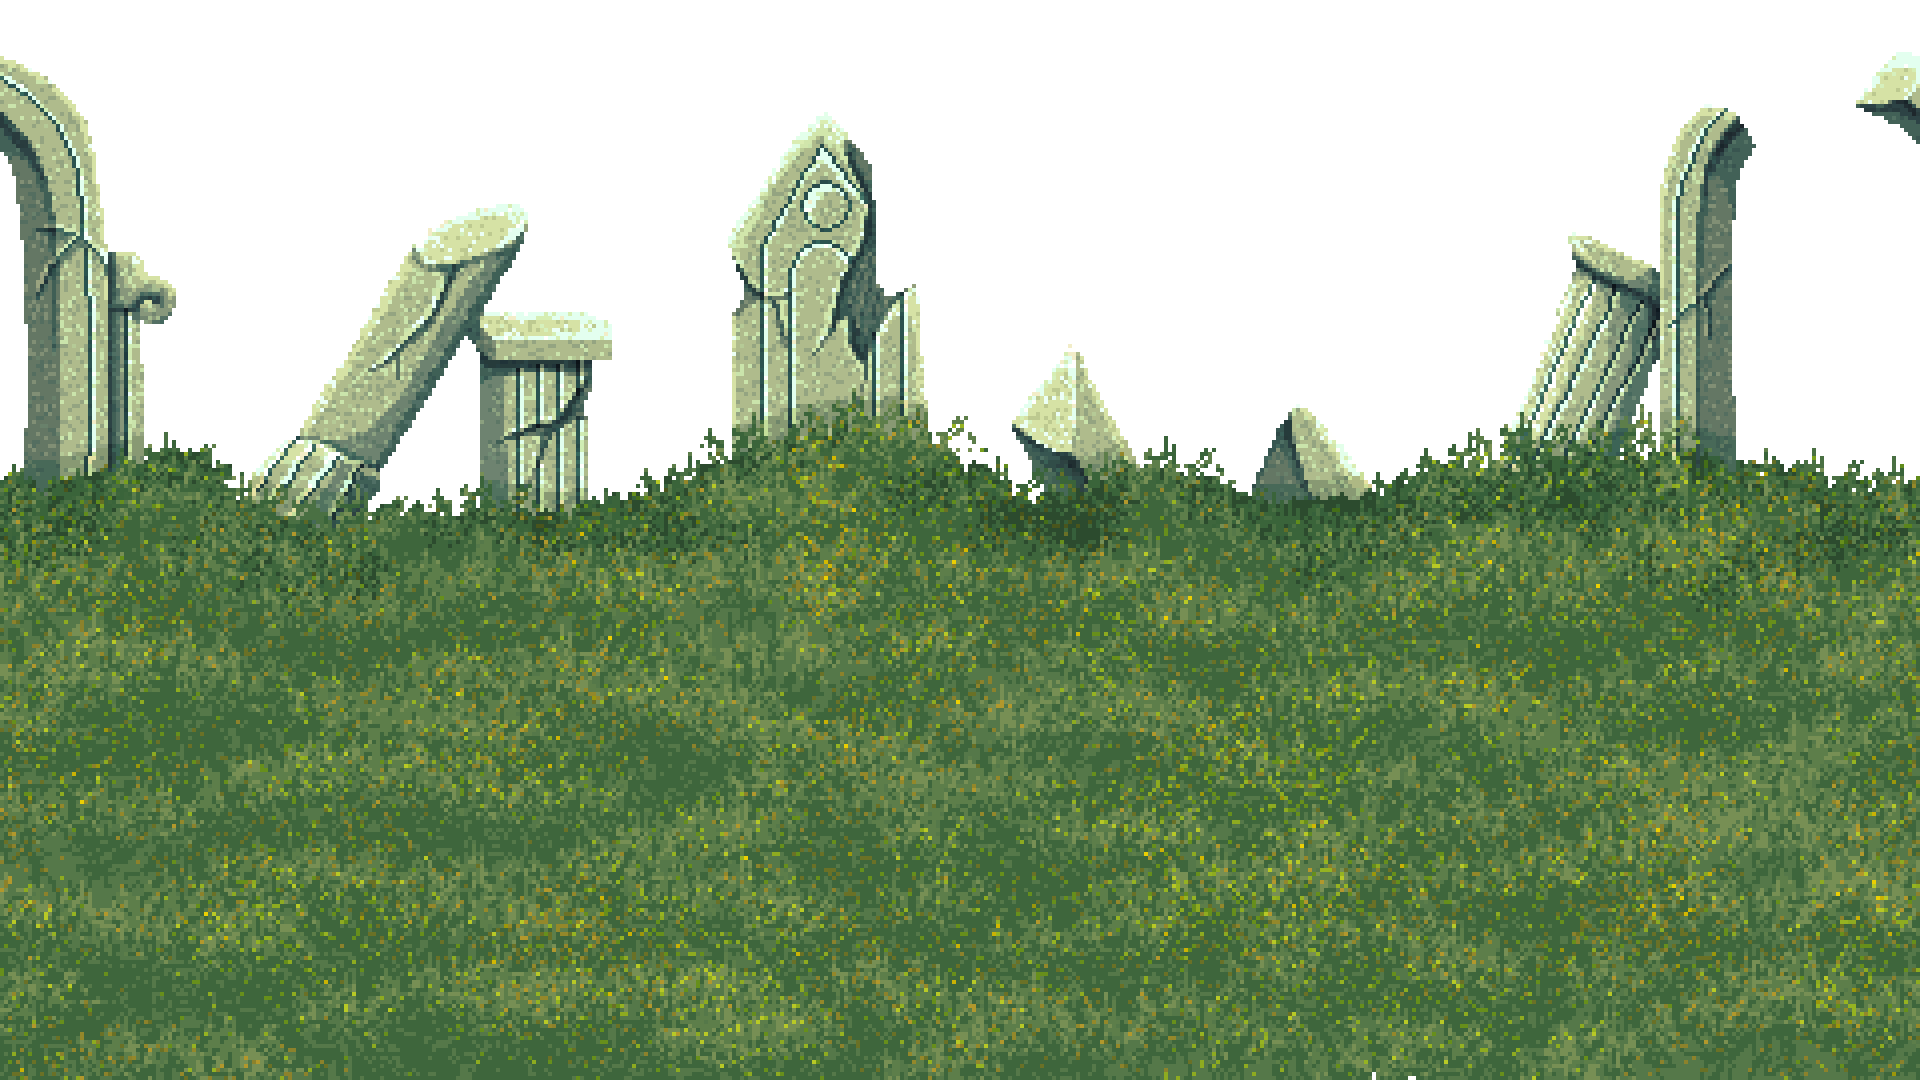
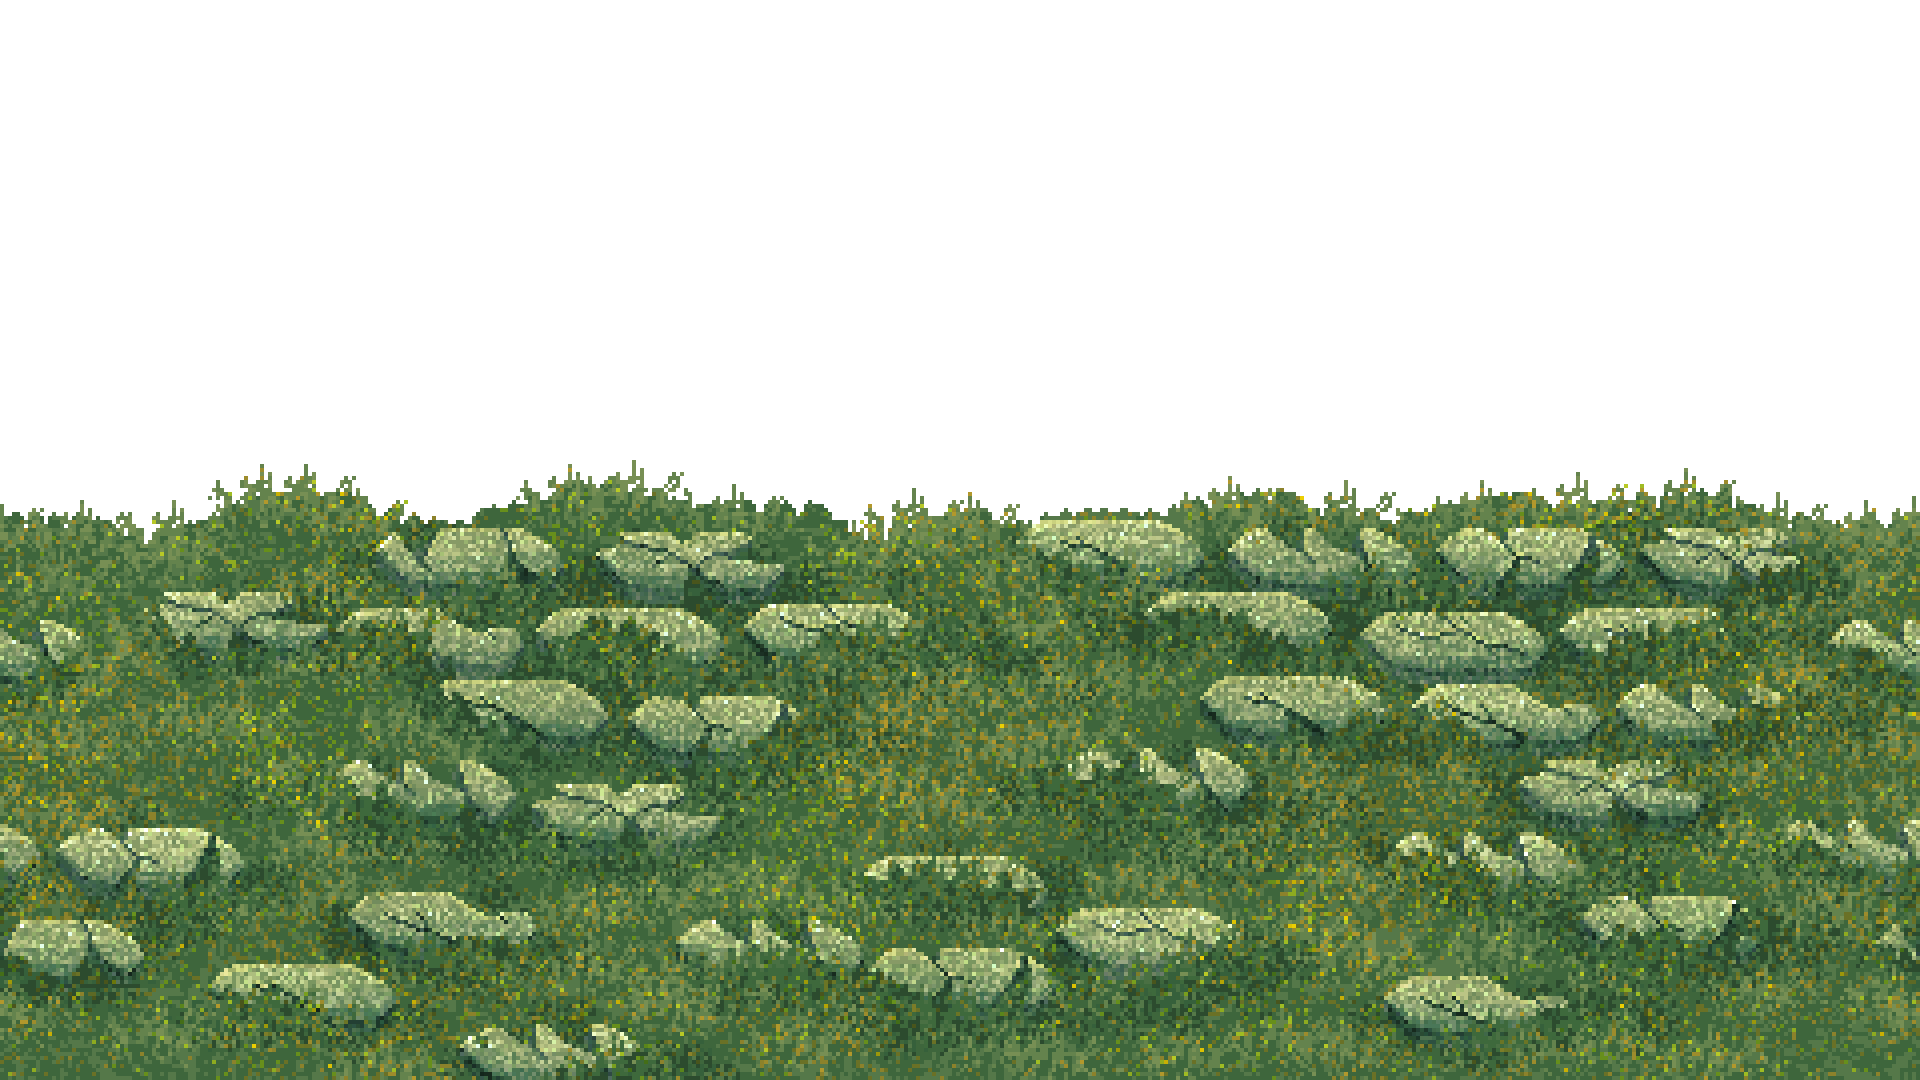
create move of player and enemys on screen

diff --git a/codegame/level.py b/codegame/level.py
@@ -1,7 +1,9 @@
 #!/usr/bin/python
 # -*- coding: utf-8 -*-
 
+import sys
 import pygame
+from codegame.const import COLOR_MENU, COLOR_TITLE, EVENT_ENEMY, WIN_HEIGHT
 from codegame.entity import Entity
 from codegame.entityFactory import EntityFactory
 
@@ -13,11 +15,38 @@ class Level:
         self.menu_option = menu_option
         self.entity_list: list[Entity] = []
         self.entity_list.extend(EntityFactory.get_entity('level1Bg')) 
+        self.entity_list.extend(EntityFactory.get_entity('Player1')) 
+        pygame.time.set_timer(EVENT_ENEMY, 2000)
 
     def run(self, ):
+        pygame.mixer.music.load('./assets/bgmusic.mp3')
+        pygame.mixer.music.play(loops=-1, start=1.5, fade_ms=0)
+        pygame.mixer.music.set_volume(0.3)
+        clock = pygame.time.Clock()
+
         while True:
+            clock.tick(60)
             for i in self.entity_list:
                 self.window.blit(source=i.surf, dest=i.rect)
                 i.move()
+
+            for event in pygame.event.get():
+                if event.type == pygame.QUIT:
+                    pygame.quit() # fechar janela
+                    sys.exit() # fechar jogo
+                if event.type == EVENT_ENEMY:
+                    self.entity_list.extend(EntityFactory.get_entity('Enemy1'))
+
+
+            self.level_text(18, f'fps: {clock.get_fps() :.0f}', COLOR_MENU, (50, WIN_HEIGHT - 40))
+            self.level_text(18, f'Inimigos: {len(self.entity_list)}', COLOR_MENU, (80, WIN_HEIGHT - 20))
             pygame.display.flip()
         pass
+
+
+
+    def level_text(self, text_size: int, text: str, text_color: tuple, text_center_pos: tuple):
+        text_font = pygame.font.Font("assets/fonts/Nosifer-Regular.ttf", text_size)
+        text_surf: pygame.Surface = text_font.render(text, True, text_color).convert_alpha()
+        text_rect: pygame.Rect = text_surf.get_rect(center=text_center_pos)
+        self.window.blit(source=text_surf, dest=text_rect)

diff --git a/codegame/entityFactory.py b/codegame/entityFactory.py
@@ -1,8 +1,11 @@
 #!/usr/bin/python
 # -*- coding: utf-8 -*-
 
+import random
 from codegame.background import Background
-from codegame.const import WIN_WIDTH
+from codegame.const import WIN_HEIGHT, WIN_WIDTH
+from codegame.enemy import Enemy
+from codegame.player import Player
 
 
 class EntityFactory:
@@ -12,9 +15,13 @@ class EntityFactory:
         match entity_name:
             case 'level1Bg':
                 list_bg = []
-                for i in range(7):
+                for i in range(6):
                     list_bg.append(Background( name=f'level1Bg{i}', position=(0, 0)))
                     list_bg.append(Background( name=f'level1Bg{i}', position=(WIN_WIDTH, 0)))
                 return list_bg
-            case _:
-                raise ValueError(f"Tipo de entidade desconhecido: {entity_name}")
+            case 'Player1':
+                return [Player('Player1', (10, WIN_HEIGHT - 350))]
+            case 'Enemy1':
+                return[Enemy('Enemy1', (WIN_WIDTH + 10, random.randint(40, WIN_HEIGHT - 40)))]
+            case _: 
+                raise ValueError(f"Tipo de entidade desconhecido: '{entity_name}'")

diff --git a/codegame/player.py b/codegame/player.py
@@ -1,13 +1,24 @@
 #!/usr/bin/python
 # -*- coding: utf-8 -*-
 
+import pygame
+from codegame.const import ENTITY_SPEED, WIN_HEIGHT, WIN_WIDTH
 from codegame.entity import Entity
 
 
 class Player(Entity):
-    def __init__(self):
-        self.vida = None
-        self.dano = None
+    def __init__(self, name: str, position: tuple):
+        super().__init__(name, position)
+
 
     def move(self, ):
+        pressed_key = pygame.key.get_pressed()
+        if pressed_key[pygame.K_w] and self.rect.top > 0:
+            self.rect.centery -= ENTITY_SPEED[self.name]
+        if pressed_key[pygame.K_s] and self.rect.bottom < WIN_HEIGHT:
+            self.rect.centery += ENTITY_SPEED[self.name]
+        if pressed_key[pygame.K_a] and self.rect.left > 0:
+            self.rect.centerx -= ENTITY_SPEED[self.name]
+        if pressed_key[pygame.K_d] and self.rect.right < WIN_WIDTH:
+            self.rect.centerx += ENTITY_SPEED[self.name]
         pass

diff --git a/codegame/enemy.py b/codegame/enemy.py
@@ -1,13 +1,16 @@
 #!/usr/bin/python
 # -*- coding: utf-8 -*-
 
+from codegame.const import ENTITY_SPEED, WIN_WIDTH
 from codegame.entity import Entity
 
 
 class Enemy(Entity):
-    def __init__(self, vida, dano):
-        self.vida = vida
-        self.dano = dano
+    def __init__(self, name: str, position: tuple):
+        super().__init__(name, position)
 
     def move(self, ):
+        self.rect.centerx -= ENTITY_SPEED[self.name]
+        if self.rect.right <= 0:
+            self.rect.left = WIN_WIDTH
         pass

diff --git a/codegame/const.py b/codegame/const.py
@@ -1,10 +1,13 @@
 #C
+import pygame
+
+
 COLOR_TITLE = (139, 0, 0)
 COLOR_MENU = (255, 255, 255)
 MENU_CHAR_OPTION = (
-    'BONGO',
-    'MONGO',
-    'LONGO'
+    'Player 1',
+    'Player 2',
+    'Player 3'
 )
 
 #E
@@ -15,8 +18,11 @@ ENTITY_SPEED = {
     'level1Bg3': 3,
     'level1Bg4': 4,
     'level1Bg5': 5,
-    'level1Bg6': 6,
+    'Player1': 3,
+    'Enemy1': 3
 }
+
+EVENT_ENEMY = pygame.USEREVENT + 1
 
 #M
 MENU_OPTION = (

diff --git a/codegame/menu.py b/codegame/menu.py
@@ -7,7 +7,7 @@ from codegame.const import COLOR_MENU, COLOR_TITLE, MENU_OPTION, WIN_WIDTH
 class Menu:
     def __init__(self, window):
         self.window = window
-        self.surf = pygame.image.load('./assets/img/Battleground4.png')
+        self.surf = pygame.image.load('./assets/img/Battleground4.png').convert_alpha()
         self.rect = self.surf.get_rect(left=0,top=0)
         
     def run(self):

diff --git a/codegame/entity.py b/codegame/entity.py
@@ -9,7 +9,7 @@ import pygame
 class Entity(ABC):
     def __init__(self, name:str, position:tuple):
         self.name = name
-        self.surf = pygame.image.load('./assets/img/' + name + '.png')
+        self.surf = pygame.image.load('./assets/img/' + name + '.png').convert_alpha()
         self.rect = self.surf.get_rect(left=position[0], top=position[1])
         self.speed = 0
 
